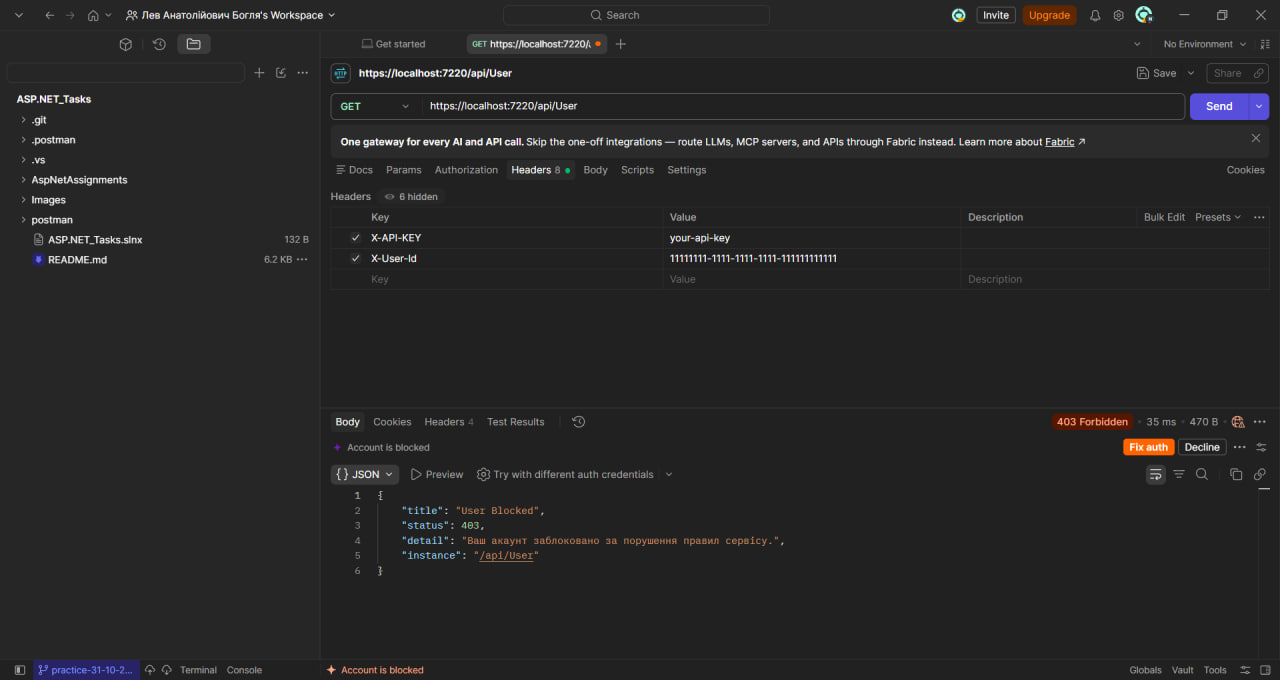
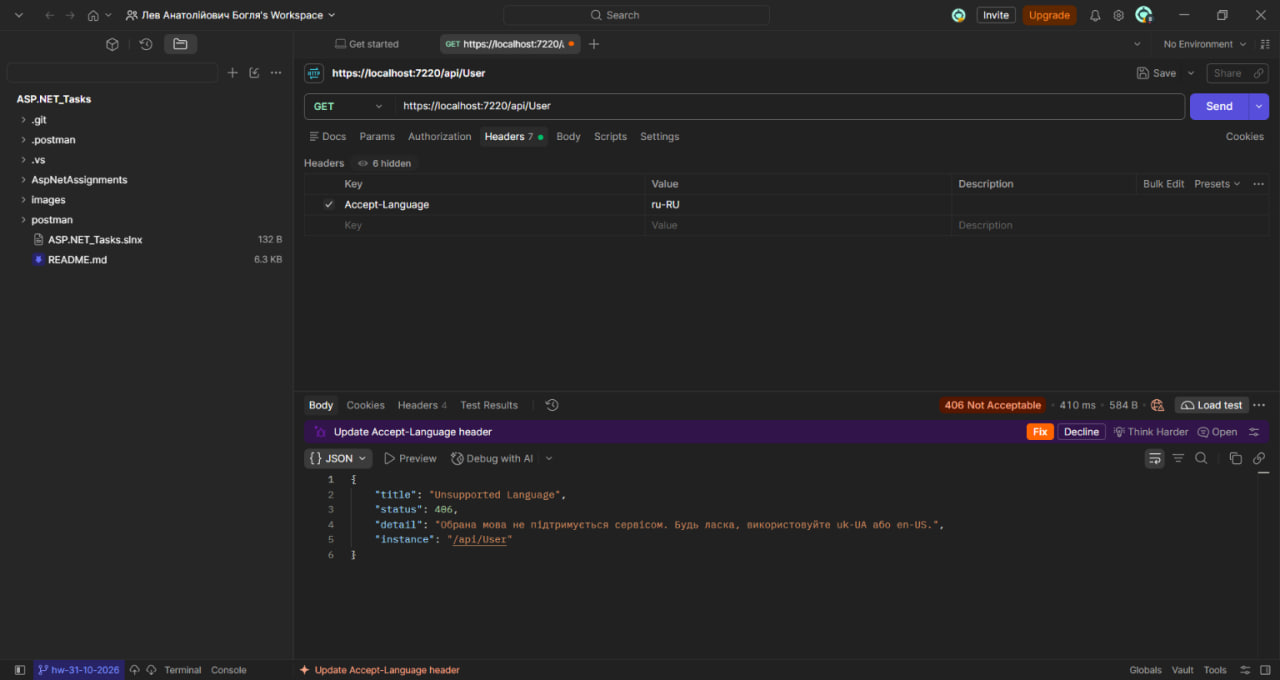
feat: Add LanguageValidationMiddleware to block russian language requests

diff --git a/AspNetAssignments/Program.cs b/AspNetAssignments/Program.cs
@@ -74,7 +74,7 @@ public class Program
                 Version = "v1",
                 Description = "REST API сервіс для управління товарами, користувачами та замовленнями"
             });
-
+            /*
             c.AddSecurityDefinition("ApiKey", new Microsoft.OpenApi.OpenApiSecurityScheme
             {
                 Description = "Введите API Ключ (your-api-key)",
@@ -82,7 +82,10 @@ public class Program
                 In = Microsoft.OpenApi.ParameterLocation.Header,
                 Type = Microsoft.OpenApi.SecuritySchemeType.ApiKey
             });
+            */
 
+
+            /*
             c.AddSecurityDefinition("UserId", new Microsoft.OpenApi.OpenApiSecurityScheme
             {
                 Description = "Введите ID пользователя (GUID)",
@@ -90,8 +93,9 @@ public class Program
                 In = Microsoft.OpenApi.ParameterLocation.Header,
                 Type = Microsoft.OpenApi.SecuritySchemeType.ApiKey
             });
+            */
 
-            c.AddSecurityRequirement(_ => new Microsoft.OpenApi.OpenApiSecurityRequirement
+            /*c.AddSecurityRequirement(_ => new Microsoft.OpenApi.OpenApiSecurityRequirement
             {
                 {
                     new Microsoft.OpenApi.OpenApiSecuritySchemeReference("ApiKey"),
@@ -102,6 +106,7 @@ public class Program
                     new List<string>()
                 }
             });
+            */
         });
 
         var app = builder.Build();
@@ -109,9 +114,11 @@ public class Program
         // Глобальне перехоплення помилок
         app.UseMiddleware<ExceptionHandlingMiddleware>();
 
+        app.UseLanguageValidation();
+
         app.UseBlockedUser();
 
-        app.UseApiKeyAuthentication();
+        //app.UseApiKeyAuthentication();
 
         // Логування запитів із вимірюванням тривалості
         app.UseRequestLogging();

diff --git a/AspNetAssignments/Middleware/LanguageValidationMiddleware.cs b/AspNetAssignments/Middleware/LanguageValidationMiddleware.cs
@@ -1,0 +1,56 @@
+using System.Text.Json;
+using Microsoft.AspNetCore.Http;
+using Microsoft.AspNetCore.Mvc;
+
+namespace AspNetAssignments.Middleware;
+
+public class LanguageValidationMiddleware
+{
+    private readonly RequestDelegate _next;
+
+    public LanguageValidationMiddleware(RequestDelegate next)
+    {
+        _next = next;
+    }
+
+    public async Task InvokeAsync(HttpContext context)
+    {
+        string? acceptLanguage = context.Request.Headers["Accept-Language"];
+
+        if (string.IsNullOrWhiteSpace(acceptLanguage))
+        {
+            context.Items["Language"] = "uk-UA";
+            await _next(context);
+            return;
+        }
+
+        if (acceptLanguage.Contains("ru", StringComparison.OrdinalIgnoreCase))
+        {
+            context.Response.StatusCode = StatusCodes.Status406NotAcceptable;
+            context.Response.ContentType = "application/problem+json";
+
+            var problemDetails = new ProblemDetails
+            {
+                Status = StatusCodes.Status406NotAcceptable,
+                Title = "Unsupported Language",
+                Detail = "Обрана мова не підтримується сервісом. Будь ласка, використовуйте uk-UA або en-US.",
+                Instance = context.Request.Path
+            };
+
+            var json = JsonSerializer.Serialize(problemDetails);
+            await context.Response.WriteAsync(json);
+            return;
+        }
+
+        context.Items["Language"] = acceptLanguage;
+        await _next(context);
+    }
+}
+
+public static class LanguageValidationMiddlewareExtensions
+{
+    public static IApplicationBuilder UseLanguageValidation(this IApplicationBuilder builder)
+    {
+        return builder.UseMiddleware<LanguageValidationMiddleware>();
+    }
+}

diff --git a/README.md b/README.md
@@ -91,9 +91,9 @@ builder.Services.AddControllers(options =>
 ---
 
 ## 🚀 Остання влита робота:
-### Практична робота 31.10.2026
-Остання актуальна робота, що була перевірена та влита в `main` (або не влита, та знаходиться в гілці pratice-31-10-2026):
+### Домашня робота 31.10.2026
+Остання актуальна робота, що була перевірена та влита в `main` (або не влита, та знаходиться в гілці hw-31-10-2026):
 ### Підтвердження виконання (Скріншоти та результати тестування) для практичної або домашньої роботи:
 ## Почав використовувати Postman для тестування API, ось приклади запитів та результатів(тому що без нього були проблеми):
-![Немає](images/1.jpg)
-![Немає](images/2.jpg)
+![Немає](Images/1.jpg)
+![Немає](Images/2.jpg)
